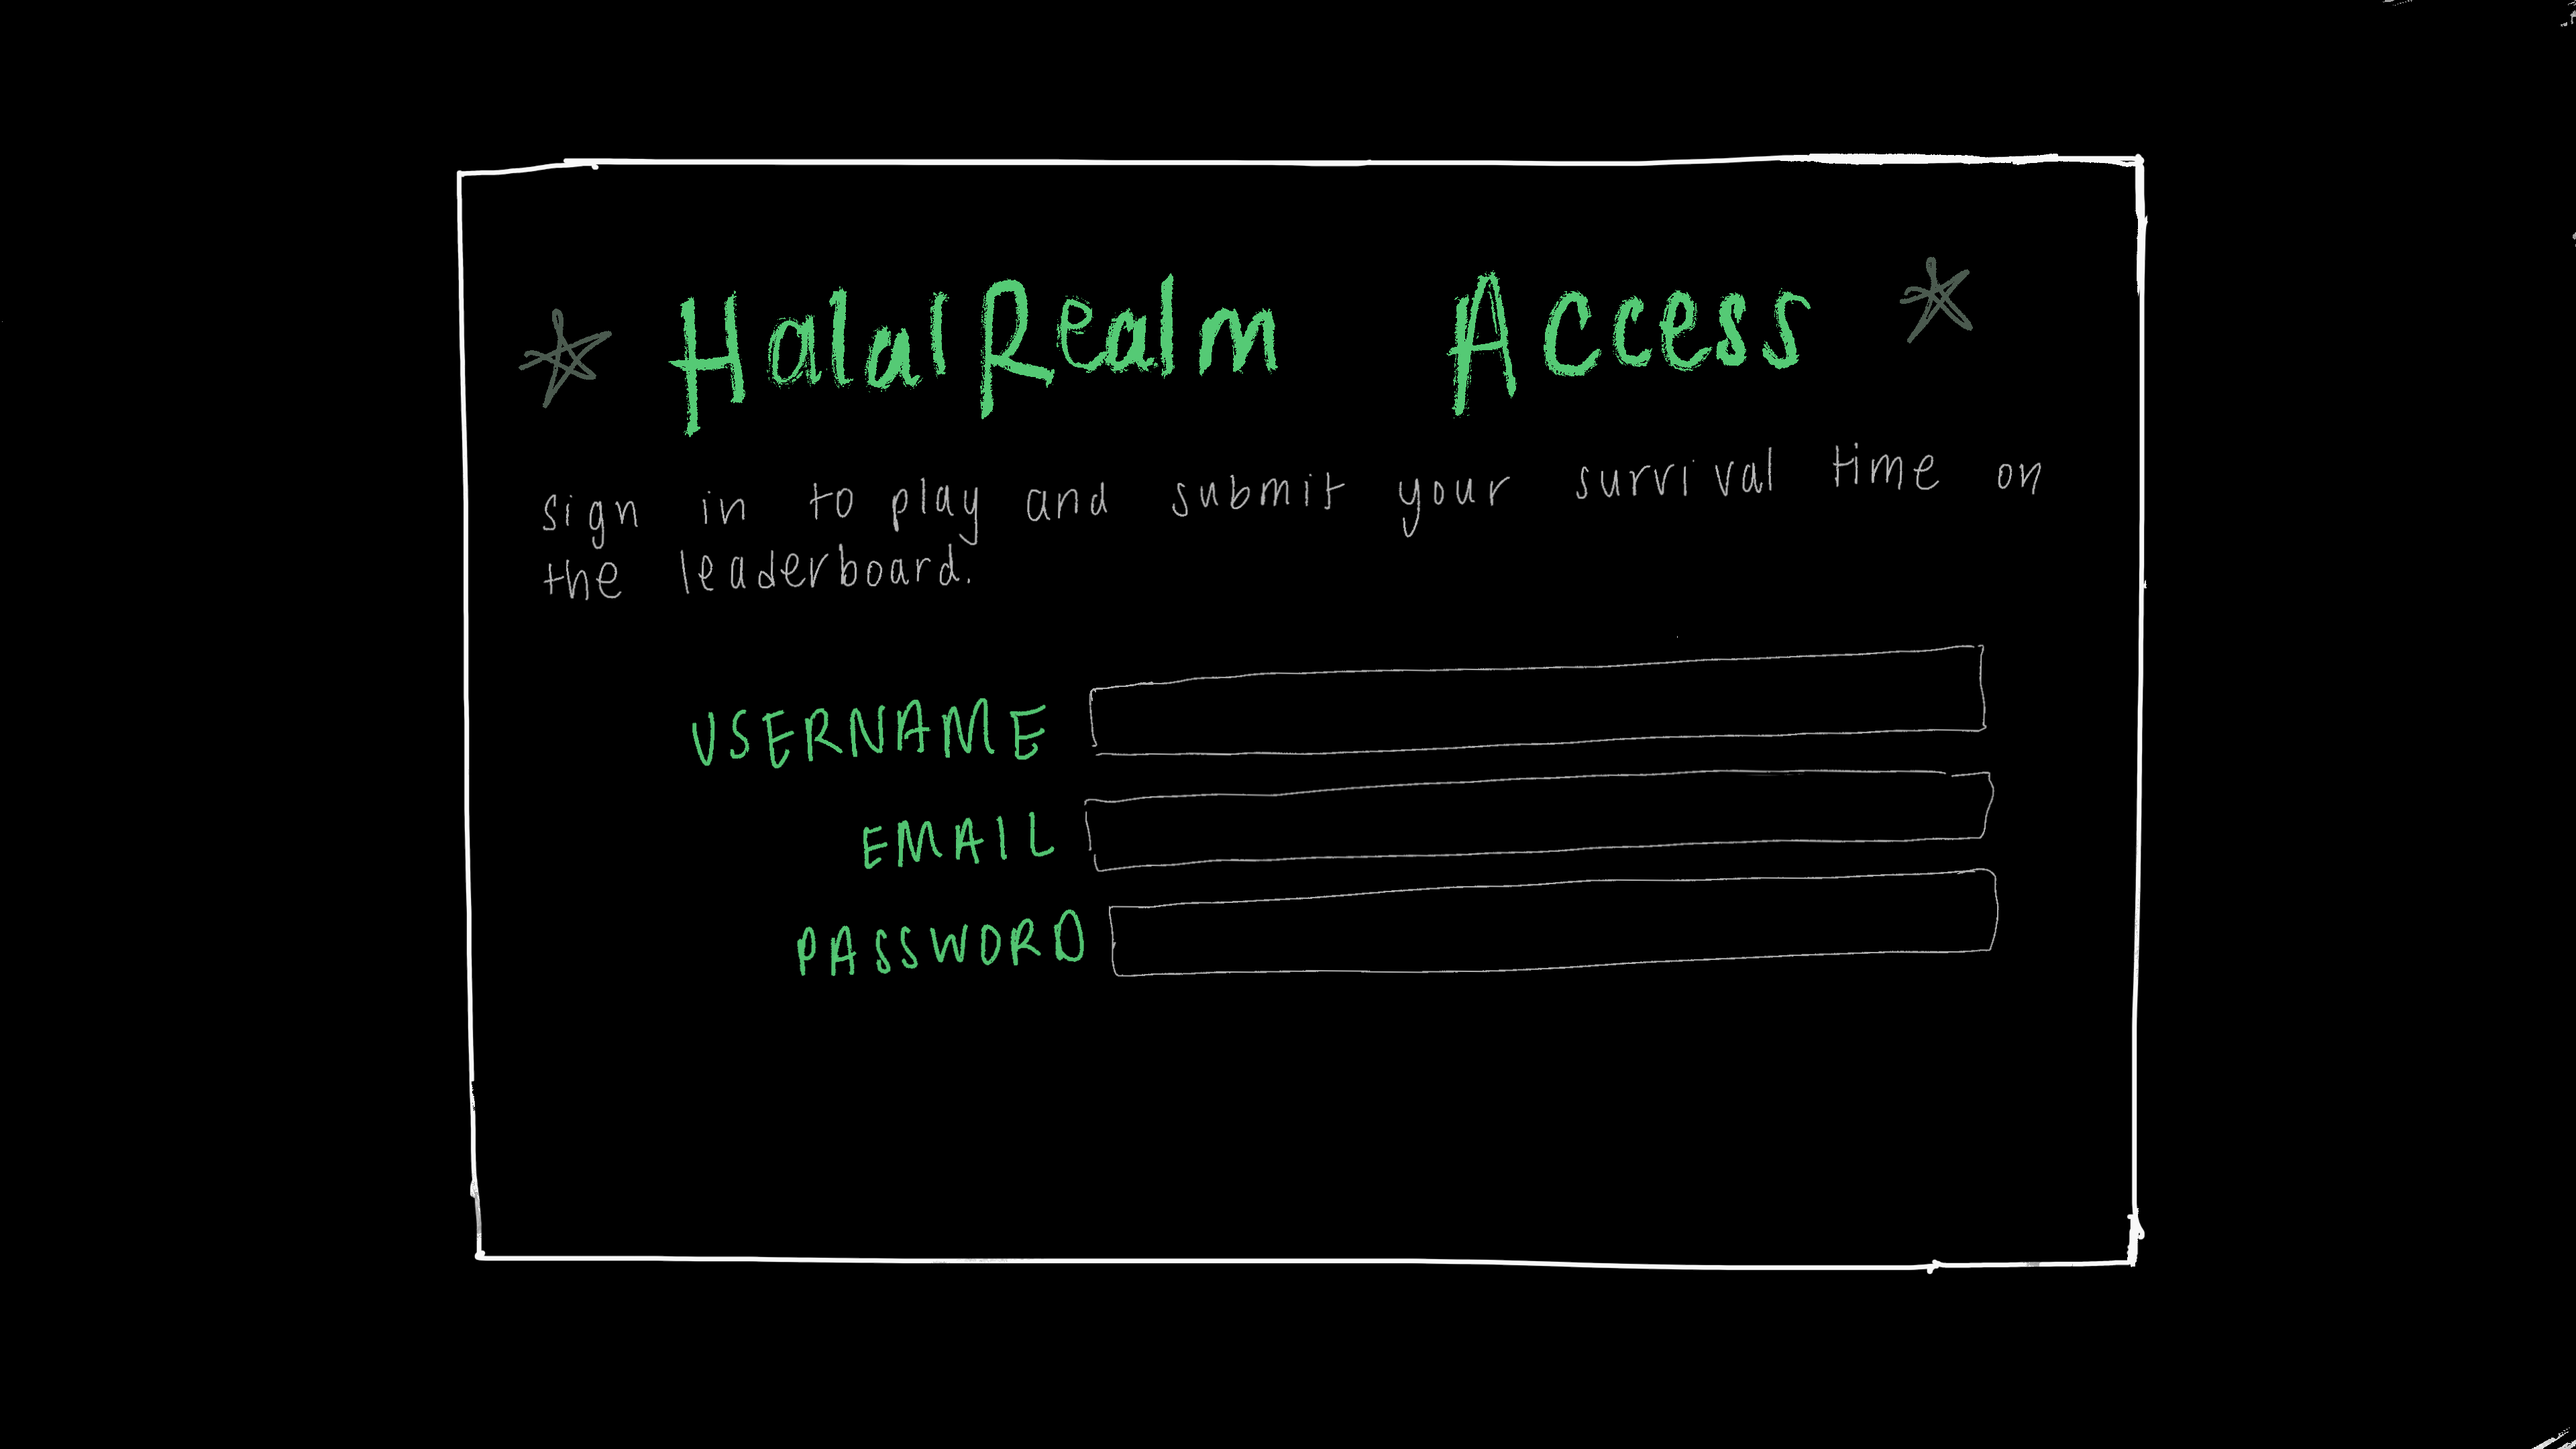
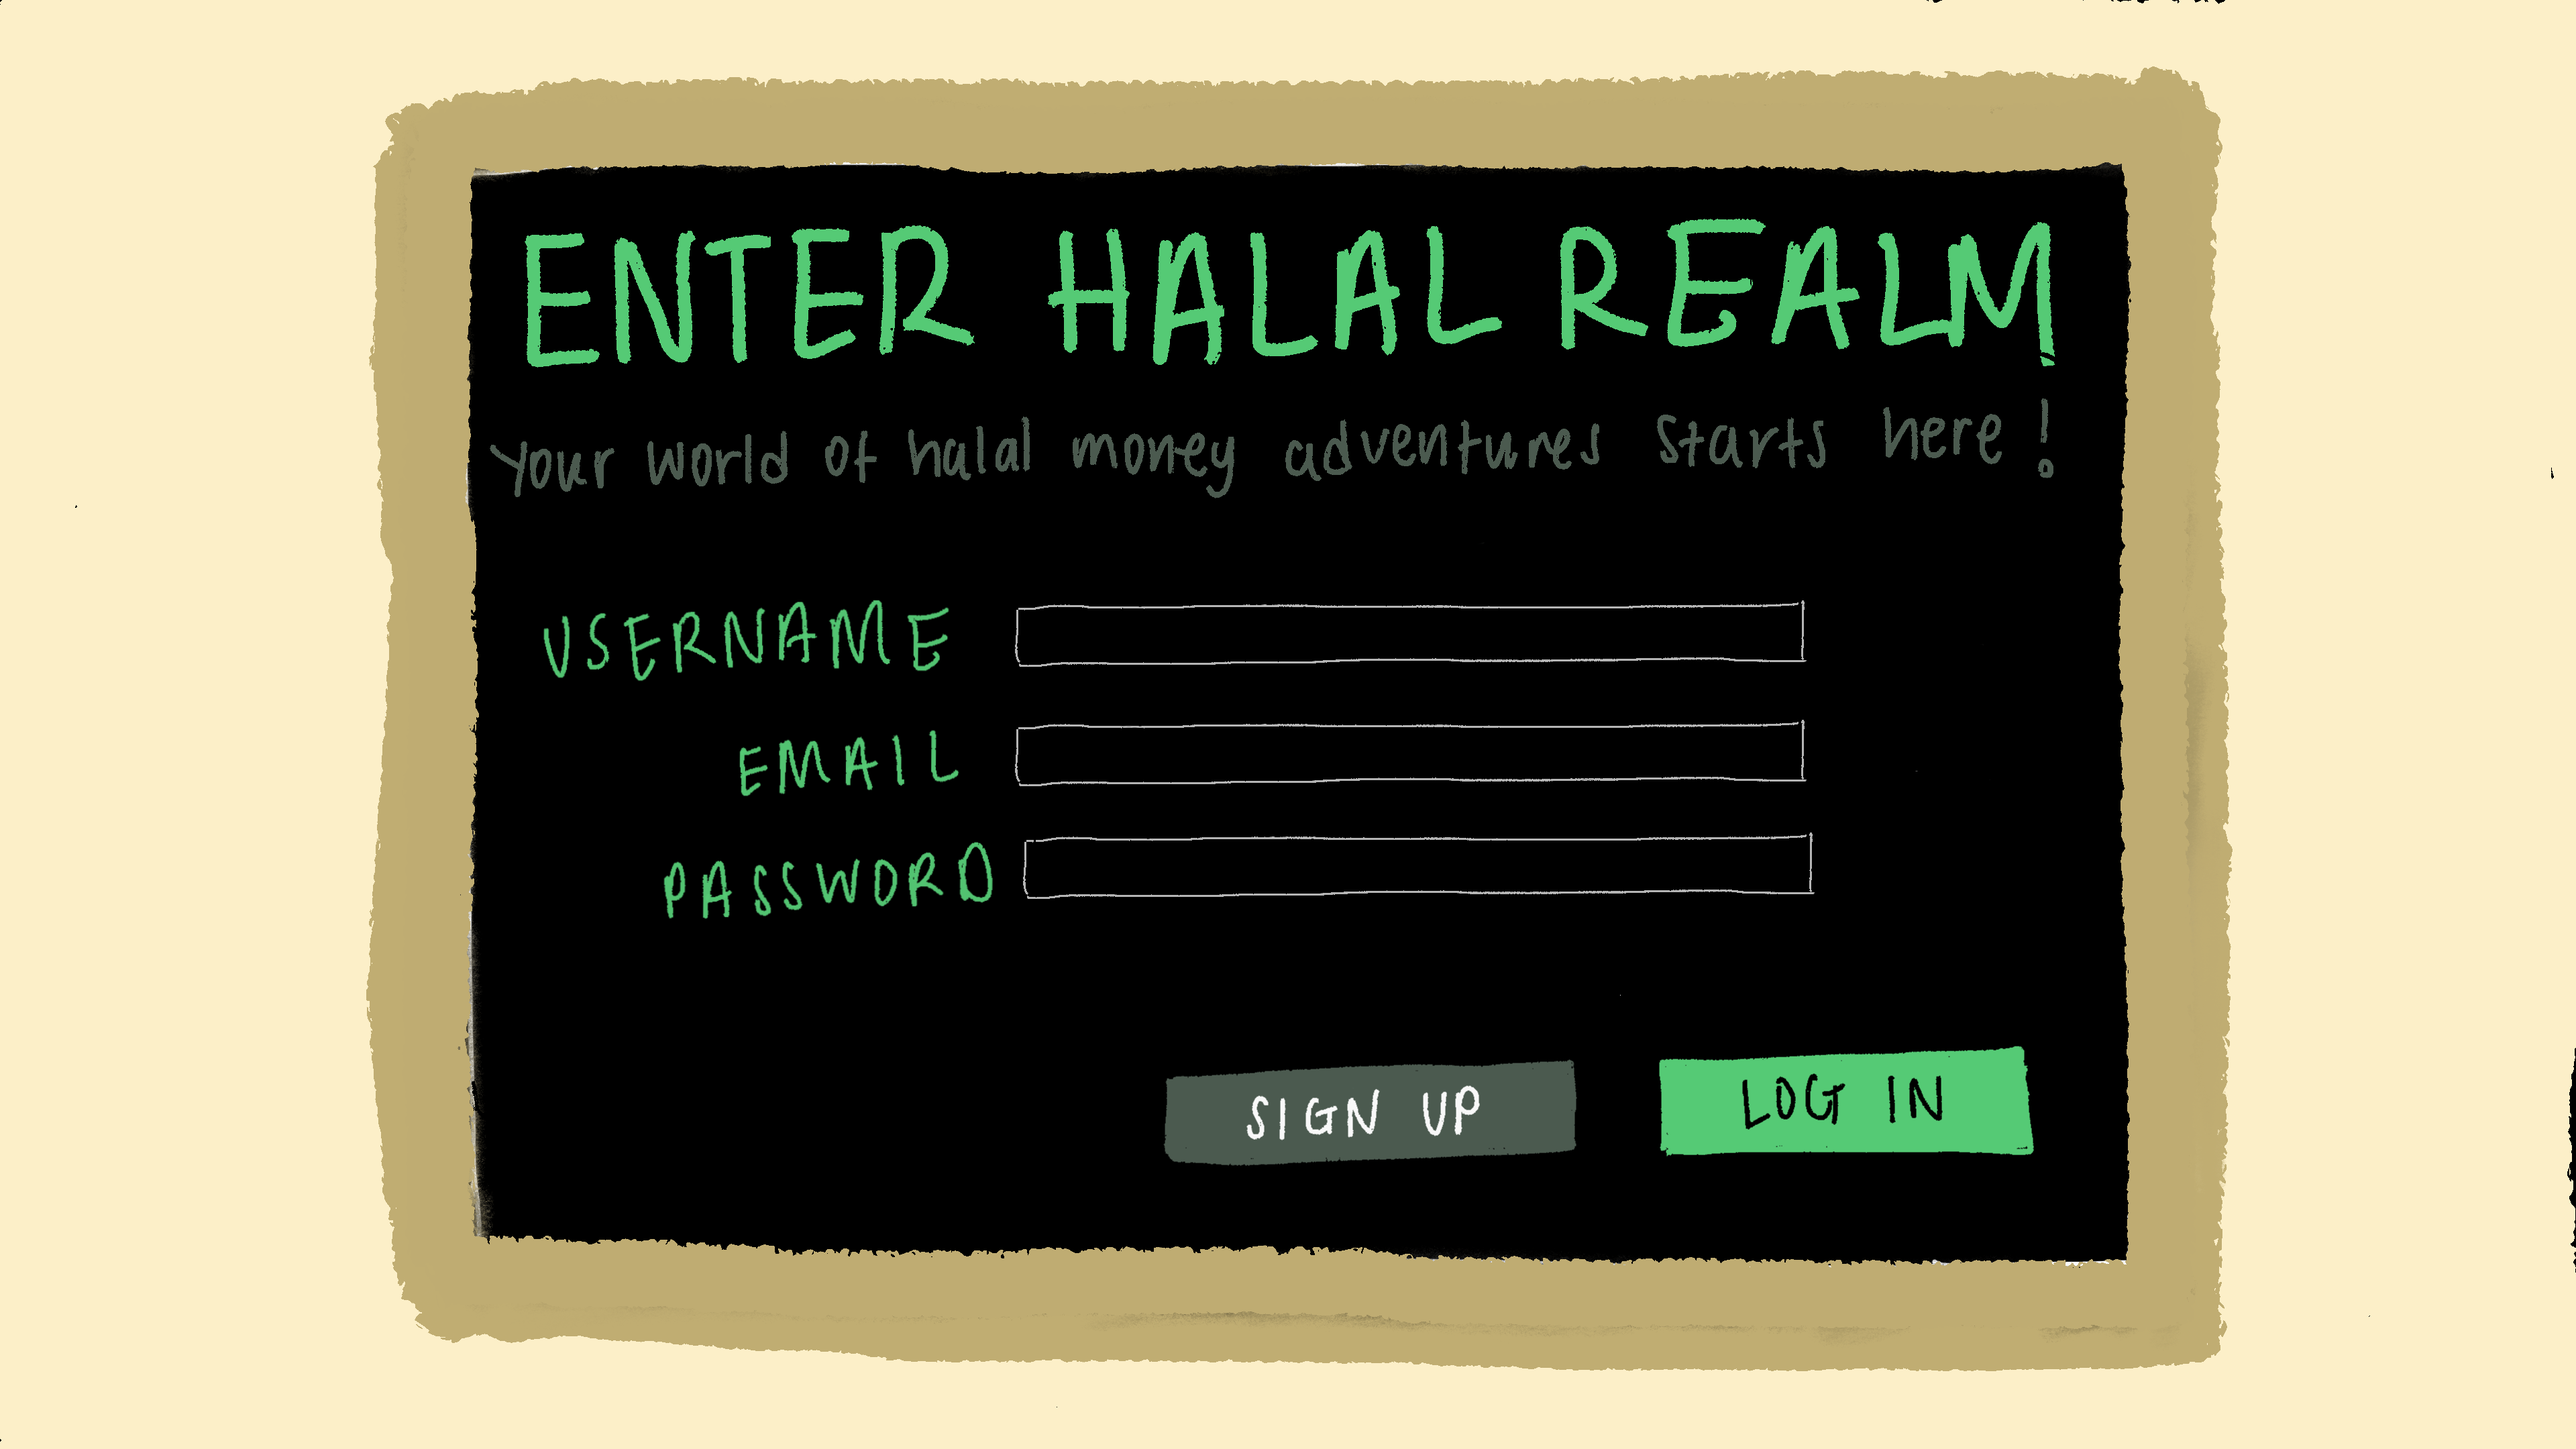
changed login screen, updatged intro and eliminated sepearate login and signup buttons

diff --git a/styles/main.css b/styles/main.css
@@ -568,8 +568,8 @@ canvas {
 
 #authCard {
     /* Adjust these to move and resize the 3 stacked input boxes */
-    --auth-fields-top: 270px;
-    --auth-fields-left: 375px;
+    --auth-fields-top: 240px;
+    --auth-fields-left: 335px;
     --auth-field-width: 350px;
     --auth-field-gap: 17px;
     --auth-field-height: 32px;
@@ -578,11 +578,11 @@ canvas {
     --auth-field-padding-x: 12px;
 
     /* Adjust these to move the login/signup image buttons */
-    --auth-buttons-top: 418px;
-    --auth-buttons-left: 258px;
-    --auth-button-width: 182px;
-    --auth-button-height: 56px;
-    --auth-button-gap: 16px;
+    --auth-buttons-top: 430px;
+    --auth-buttons-left: 410px;
+    --auth-button-width: 150px;
+    --auth-button-height: 50px;
+    --auth-button-gap: 40px;
 
     position: relative;
     width: 897px;

diff --git a/js/auth.js b/js/auth.js
@@ -381,7 +381,7 @@ authPrimaryBtn.addEventListener('click', async () => {
         setAuthStatus('Supabase is not configured.', true);
         return;
     }
-    await handleLogin();
+    await handleSignup();
 });
 
 authToggleBtn.addEventListener('click', async () => {
@@ -389,14 +389,14 @@ authToggleBtn.addEventListener('click', async () => {
         setAuthStatus('Supabase is not configured.', true);
         return;
     }
-    await handleSignup();
+    await handleLogin();
 });
 
 [authUsernameInput, authEmailInput, authPasswordInput].forEach(input => {
     input.addEventListener('keydown', async (event) => {
         if (event.key !== 'Enter') return;
         event.preventDefault();
-        authPrimaryBtn.click();
+        authToggleBtn.click();
     });
 });
 

diff --git a/index.html b/index.html
@@ -36,7 +36,7 @@
 
     <div id="introOverlay">
         <div id="introWrapper">
-            <iframe id="introVideo" src="https://streamable.com/e/tmrbbx" frameborder="0" scrolling="no" allowfullscreen style="width:100%; height:100%; display:block;"></iframe>
+            <iframe id="introVideo" src="https://streamable.com/e/ofcwr5" frameborder="0" scrolling="no" allowfullscreen style="width:100%; height:100%; display:block;"></iframe>
             <button id="introPlayButton" style="display:none;"></button>
             <button id="introProceedButton">PROCEED</button>
             <button id="introSkip">SKIP</button>
